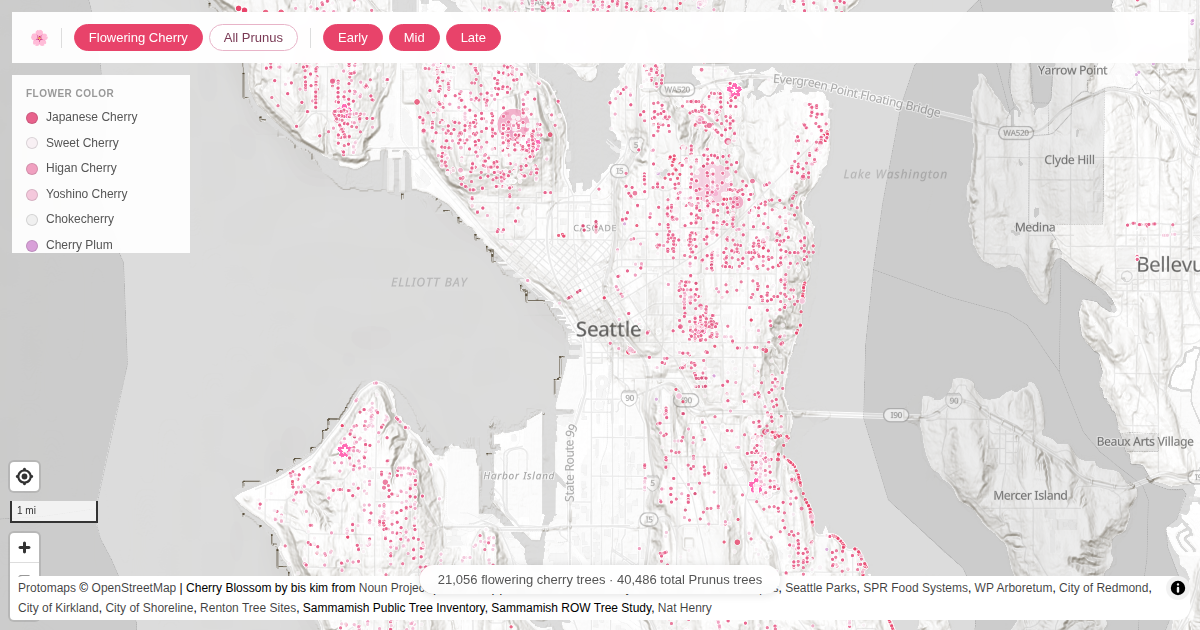
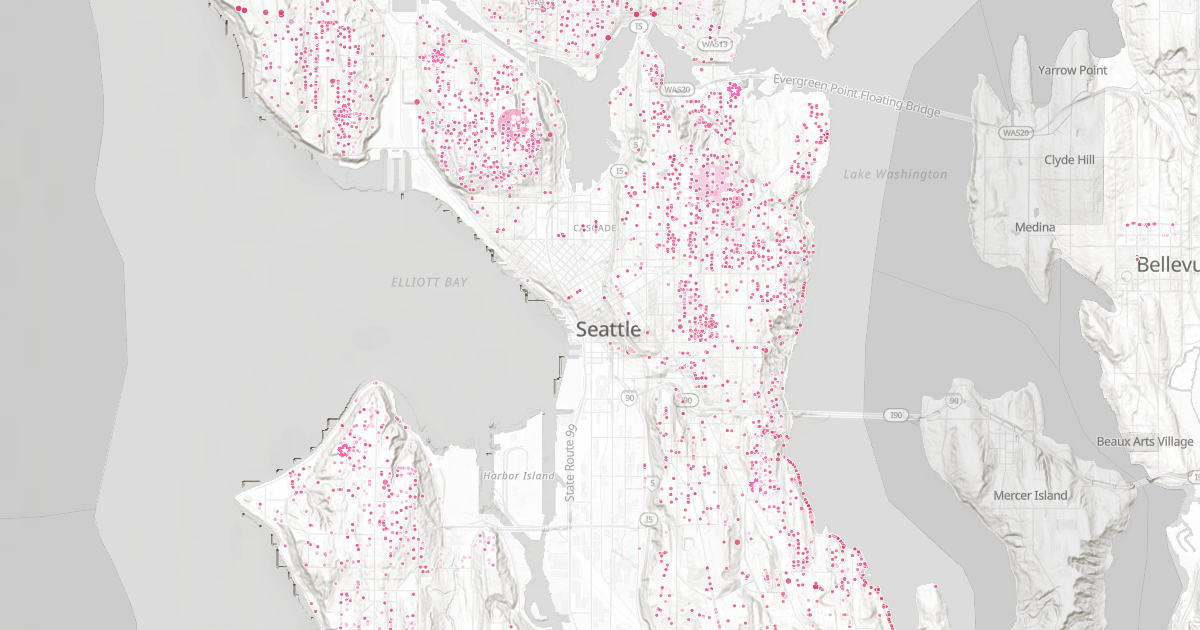
Hide UI elements during thumbnail generation

Changed region(s): [[0.0, 0.0, 1.0, 0.4222], [0.0, 0.7238, 0.9867, 0.9952]]

diff --git a/scripts/generate_thumbnail.py b/scripts/generate_thumbnail.py
@@ -13,6 +13,18 @@ async def main():
         # Wait for map to load and render
         await page.wait_for_timeout(5000) # Give maplibre time to fetch tiles and data
 
+        # Hide UI elements before taking screenshot
+        await page.evaluate('''() => {
+            const appUi = document.querySelector('app-ui');
+            if (appUi) appUi.style.display = 'none';
+
+            const controls = document.querySelector('.maplibregl-control-container');
+            if (controls) controls.style.display = 'none';
+        }''')
+
+        # Wait a moment for layout update
+        await page.wait_for_timeout(500)
+
         await page.screenshot(path="thumbnail.png")
         await browser.close()
 
